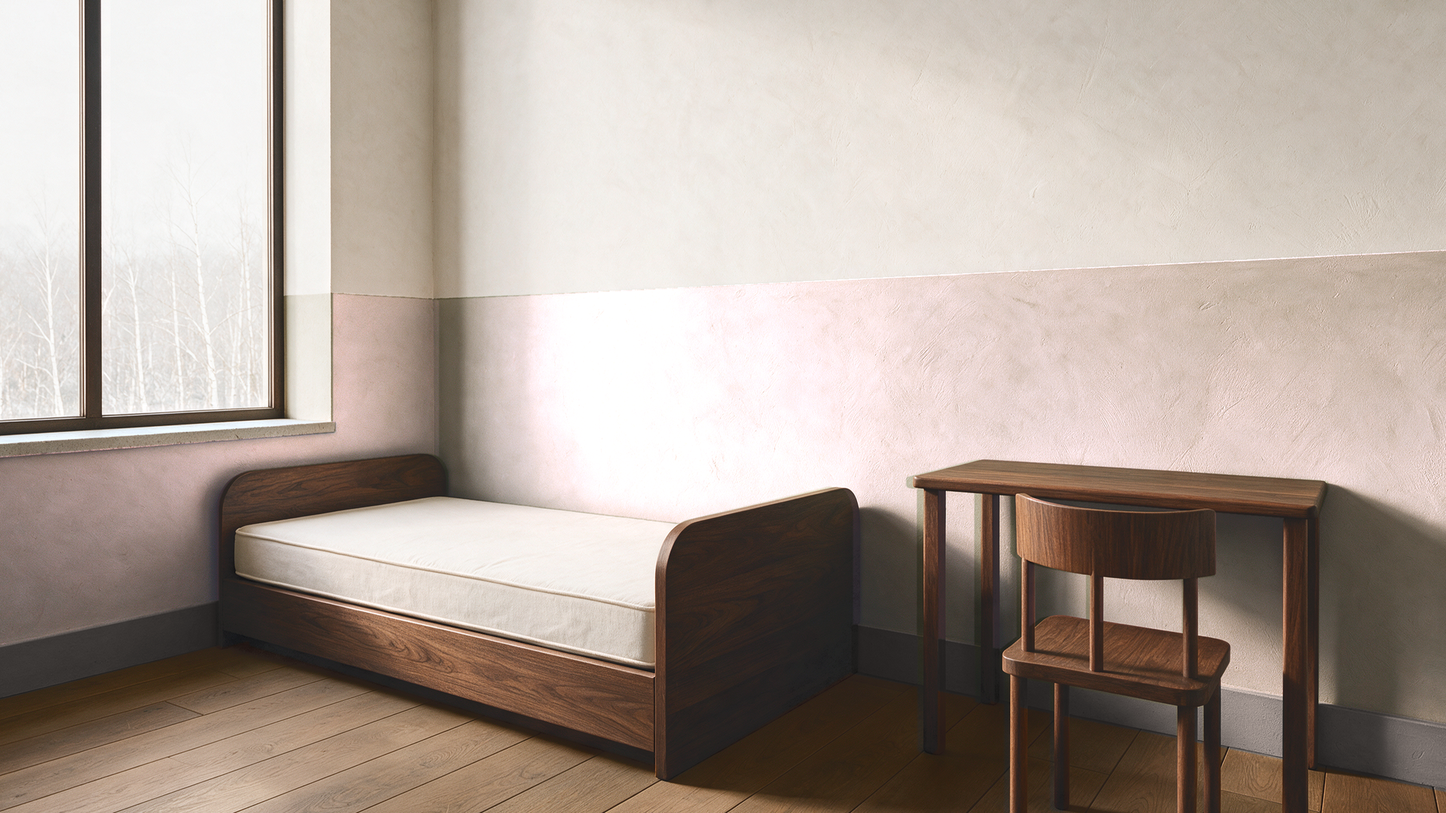
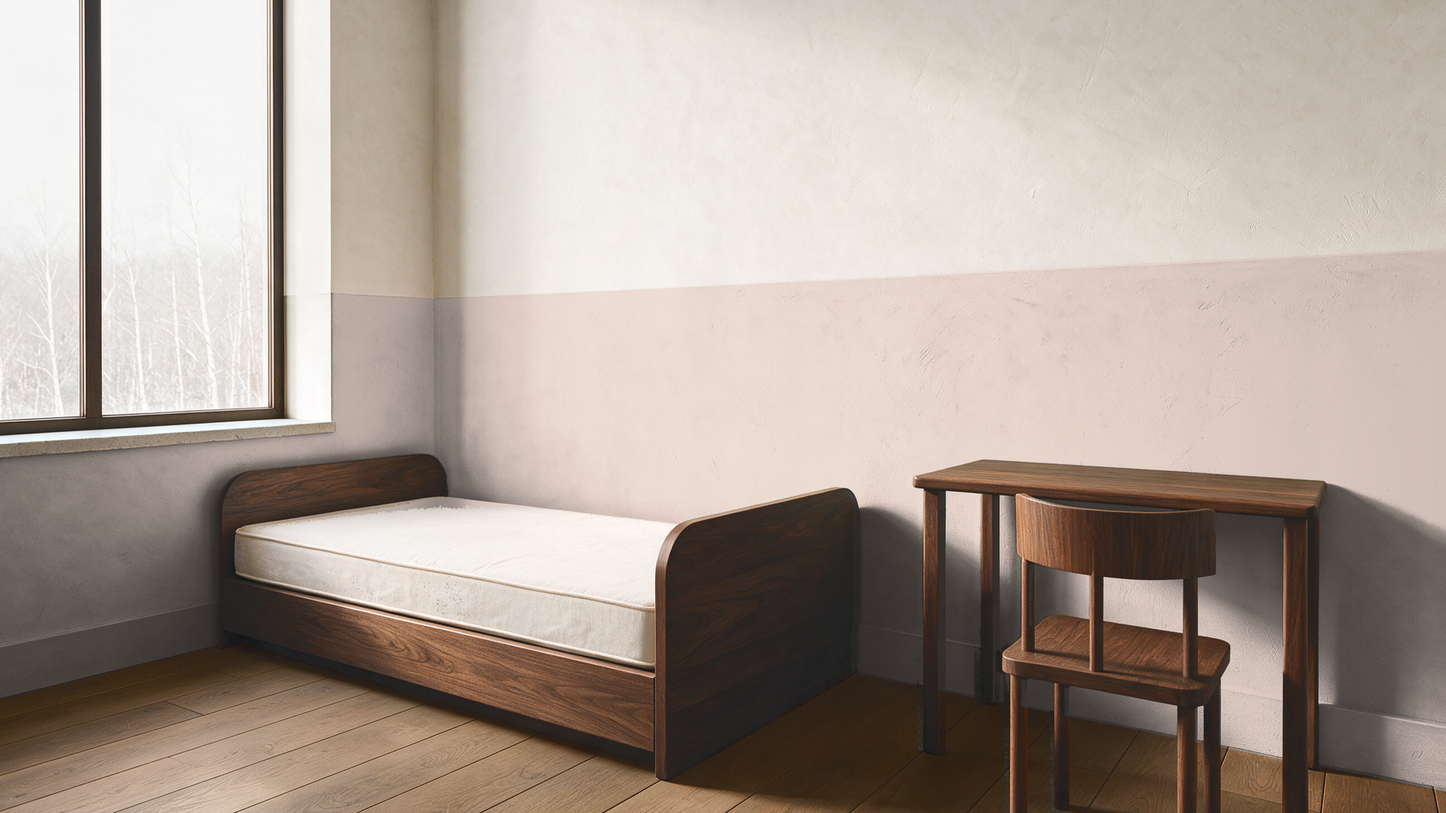
WIP checkpoint: kids QA fixes in progress
Claude-Session: https://claude.ai/code/session_012un7iEDRha5J5s2Ea72wCe

diff --git a/assets/renders/boy/warm-modern/stage1-2026-11-24/tools/girl_plate.py b/assets/renders/boy/warm-modern/stage1-2026-11-24/tools/girl_plate.py
@@ -18,6 +18,7 @@ import json
 import os
 import sys
 
+import cv2
 import numpy as np
 from PIL import Image
 
@@ -55,33 +56,82 @@ def main():
     rs = np.stack([C.blur(ratio[..., c] * w, 10) / np.maximum(C.blur(w, 10), 1e-4) for c in range(3)], -1)
     rs = np.where((C.blur(w, 10) > 0.05)[..., None], rs, 1.0)
     lin = C.lin(boy)
-    out = lin * np.where(band[..., None], 1.0, rs)
+    # K-G1 / K-G2 (QA 2026-11-24): the band is no longer the boy's band times a constant (that clipped to white where the boy's band is
+    # lit, and kept the olive's green in its shade and in the strips the clay's ids do not cover). Instead:
+    #  1. the mask by what is drawn: the clay's band ids, plus the olive the boy's plate shows below the 1.25 line round them and in
+    #     the furniture's clay regions (the legs, the chair and the foot board were drawn thinner than the clay), minus drawn walnut;
+    #  2. the paint: #E8D5CC times a light, the light being the boy's band luminance (its trowel texture, its shade) scaled per column
+    #     so that, just under the line, the band against the girl's plaster just over it is #E8D5CC against #ECE5DA (the implied
+    #     albedo is the target in every column); one chromaticity, so the shade is the lit pink, darker, not khaki;
+    #  3. a soft shoulder: never brighter than the plaster over it in its column (x 1.03), and no channel over 0.90 linear.
+    lab_b = C.to_lab(C.blur(boy, 1.0))
+    hue = np.degrees(np.arctan2(lab_b[..., 2], lab_b[..., 1]))
+    chroma = np.hypot(lab_b[..., 1], lab_b[..., 2])
+    yy = np.arange(H)[:, None]
+    bid = np.isin(ids, (5, 8))
+    line = np.where(bid.any(0), np.argmax(bid, 0), -1).astype(np.float64)
+    okc = line > 0
+    xs_ = np.arange(W)
+    line = np.interp(xs_, xs_[okc], line[okc])
+    below = yy >= (line[None, :] - 2)
+    oliv = (hue > 85) & (hue < 140) & (chroma > 5) & (lab_b[..., 0] > 8)
+    walnut = (hue > 35) & (hue < 78) & (chroma > 7) & (lab_b[..., 0] < 50)
+    cand = (C.dil(np.isin(ids, (5, 8, 19)), 30) | np.isin(ids, (12, 14, 20, 21, 22, 23, 24, 25))) & ~np.isin(ids, (0, 13, 15, 16))
+    band = (np.isin(ids, (5, 8, 19)) & ~walnut) | (cand & below & oliv)
+    band = cv2.morphologyEx(band.astype(np.uint8), cv2.MORPH_CLOSE, C.disk(1)).astype(bool) & ~np.isin(ids, (0, 13, 15, 16))
+    out = lin * np.where(band[..., None], 1.0, rs)              # off the band: the boy's plate x the band's bounce
+    lum = lambda v: v[..., 0] * 0.2126 + v[..., 1] * 0.7152 + v[..., 2] * 0.0722   # noqa: E731
+    Yb = lum(lin)
+    Yg = lum(out)
     alb_girl = C.lin(np.array([0xE8, 0xD5, 0xCC]) / 255.0)
+    Ypl = float(lum(C.lin(np.array([0xEC, 0xE5, 0xDA]) / 255.0)))
+    east = xs_[None, :] >= np.argmax(np.isin(ids, (5,)).any(0))
+    wall_of = np.where(east, 1, 0) * np.ones((H, 1))
+    Fmap = np.zeros((H, W))
+    Smax = np.zeros((H, W))
     ks = {}
-    for wall, wd in CP.WALLS.items():              # each wall's band from its own reading (the north wall is in its own light)
-        br = CP.band_reading(boy, ids, wall)
-        alb_boy = C.lin(np.array(br["implied_albedo_srgb"]) / 255.0)
-        k = alb_girl / np.maximum(alb_boy, 1e-4)
-        ks[wall] = [round(float(v), 4) for v in k]
-        bw = np.isin(ids, wd["ids"])
-        soft = C.blur(bw.astype(np.float64), 0.8)
-        soft = np.where(C.ero(bw, 1), 1.0, np.where(C.dil(bw, 1), soft, 0.0))
-        out = out * (1 + (k - 1) * soft[..., None])
-    k = ks
-    # the plaster above each band takes the band's new bounce, the band does not (the clays' ratio on the band is its albedo change): one
-    # more pass per wall, the band against the plaster above it on the girl's own plate, to #E8D5CC
-    for wall, wd in CP.WALLS.items():
-        br2 = CP.band_reading(C.srgb(np.clip(out, 0, 1)), ids, wall, "#E8D5CC")
-        if br2 and br2["dE00"] > 1.0:
-            k2 = alb_girl / np.maximum(C.lin(np.array(br2["implied_albedo_srgb"]) / 255.0), 1e-4)
-            bw = np.isin(ids, wd["ids"])
-            soft = C.blur(bw.astype(np.float64), 0.8)
-            soft = np.where(C.ero(bw, 1), 1.0, np.where(C.dil(bw, 1), soft, 0.0))
-            out = out * (1 + (k2 - 1) * soft[..., None])
-            ks[wall + "_second_pass"] = [round(float(v), 4) for v in k2]
+    for wi, (wall, wd) in enumerate((("north", CP.WALLS["north"]), ("east", CP.WALLS["east"]))):
+        F = np.full(W, np.nan)
+        P = np.full(W, np.nan)
+        for x in range(W):
+            col = ids[:, x]
+            yb = np.nonzero(col == wd["band"])[0]
+            yp = np.nonzero(col == wd["plaster"])[0]
+            if len(yb) < 30 or len(yp) < 30 or abs(yp.max() - yb.min()) > 3:
+                continue
+            yl = yb.min()
+            pg = float(np.median(Yg[yl - 26:yl - 6, x]))
+            bt = float(np.median(Yb[yl + 6:yl + 26, x]))
+            if bt > 1e-4:
+                F[x] = (pg / Ypl) / bt
+                P[x] = pg
+        ok = np.isfinite(F)
+        if ok.sum() < 10:
+            continue
+        xo = np.nonzero(ok)[0]
+        Fm = np.array([np.median(F[xo][max(0, i - 15):i + 16]) for i in range(len(xo))])
+        Pm = np.array([np.median(P[xo][max(0, i - 15):i + 16]) for i in range(len(xo))])
+        Fx = cv2.GaussianBlur(np.interp(xs_, xo, Fm).astype(np.float32).reshape(1, -1), (0, 0), 8).ravel()
+        Px = cv2.GaussianBlur(np.interp(xs_, xo, Pm).astype(np.float32).reshape(1, -1), (0, 0), 8).ravel()
+        sel = (wall_of == wi)
+        Fmap = np.where(sel, Fx[None, :], Fmap)
+        Smax = np.where(sel, (Px / Ypl)[None, :] * 1.03, Smax)
+        ks[wall] = dict(columns=int(ok.sum()), F_p5_p50_p95=[round(float(v), 4) for v in np.percentile(Fm, [5, 50, 95])])
+    light = Fmap * Yb
+    knee = 0.8 * Smax
+    light = np.where(light > knee, knee + (Smax - knee) * np.tanh((light - knee) / np.maximum(Smax - knee, 1e-6)), light)
+    paint = alb_girl[None, None, :] * light[..., None]
+    k_, c_ = 0.70, 0.90
+    paint = np.where(paint > k_, k_ + (c_ - k_) * np.tanh((paint - k_) / (c_ - k_)), paint)
+    soft = C.blur(band.astype(np.float64), 0.7)
+    soft = np.where(C.ero(band, 1), 1.0, np.where(C.dil(band, 1), soft, 0.0))[..., None]
+    out = out * (1 - soft) + paint * soft
+    k = dict(ks, method="per column: (girl plaster over the line / #ECE5DA) / (boy band under the line), times the boy band's luminance, "
+                        "times #E8D5CC; soft shoulder at the plaster x 1.03 and 0.90 linear", band_px=int(band.sum()),
+             band_by_colour_outside_ids=int((band & ~np.isin(ids, (5, 8, 19))).sum()))
     rgb = C.srgb(np.clip(out, 0, 1))
     labk = C.to_lab(rgb)
-    ks["skirting"] = CP.skirting_fix(labk, ids, "#E8D5CC")
+    k["skirting"] = CP.skirting_fix(labk, ids, "#E8D5CC")
     rgb = np.clip(C.from_lab(labk), 0, 1)
     st = K.ST["girl"]
     K.save(os.path.join(st, "plate.png"), rgb)
@@ -121,6 +171,38 @@ def main():
     hh, ll, ss = colorsys.rgb_to_hls(*np.median(rgb[upper], 0))
     rec["plaster_above_band"]["girl_HSL"] = [round(hh * 360, 1), round(ss * 100, 1), round(ll * 100, 1)]
     rec["WM_G1"] = dict(black_point_p05=rec["black_point_p05"], range=[11, 14], ok=bool(11 <= rec["black_point_p05"] <= 14))
+    # K-G1 / K-G2 acceptance (QA 2026-11-24), on the plate
+    r8 = np.rint(rgb * 255)
+    hb = np.degrees(np.arctan2(lab[..., 2], lab[..., 1])) % 360
+    cb = np.hypot(lab[..., 1], lab[..., 2])
+    bandf = band & fr
+    cols = []
+    pl = C.lin(np.array([0xEC, 0xE5, 0xDA]) / 255.0)
+    for wall, wd in CP.WALLS.items():
+        for x in range(*wd["xr"]):
+            col = ids[:, x]
+            yb = np.nonzero(col == wd["band"])[0]
+            yp = np.nonzero(col == wd["plaster"])[0]
+            if len(yb) < 30 or len(yp) < 30 or abs(yp.max() - yb.min()) > 3:
+                continue
+            yl = yb.min()
+            bl, al = C.lin(rgb)[yl + 6:yl + 26, x].mean(0), C.lin(rgb)[yl - 26:yl - 6, x].mean(0)
+            alb = np.clip(bl / al * pl, 0, 1)
+            lab_a = C.to_lab(C.srgb(alb)[None, None])[0, 0]
+            cols.append((float(C.de00(tuple(lab_a), tuple(K.lab_hex("#E8D5CC")))), float(lab[yl + 6:yl + 26, x, 0].mean() < lab[yl - 26:yl - 6, x, 0].mean())))
+    cols = np.array(cols)
+    lit = bandf & (lab[..., 0] > 55)
+    dark = bandf & (lab[..., 0] < 50)
+    hl, hd_ = float(np.median(hb[lit])), float(np.median(hb[dark])) if dark.any() else float("nan")
+    up_l = C.ero(np.isin(ids, (1, 2)), 4) & fr
+    rec["K-G1_K-G2"] = dict(
+        band_px=int(bandf.sum()), band_px_all_three_over_245=int((bandf & (r8 > 245).all(-1)).sum()),
+        band_px_any_over_252=int((bandf & (r8 > 252).any(-1)).sum()),
+        implied_albedo_per_column_dE00_p5_p50_p95=[round(float(v), 2) for v in np.percentile(cols[:, 0], [5, 50, 95])], columns=len(cols),
+        band_darker_than_plaster_columns_frac=round(float(cols[:, 1].mean()), 4),
+        band_L_p99=round(float(np.percentile(lab[..., 0][bandf], 99)), 1), plaster_L_p99=round(float(np.percentile(lab[..., 0][up_l], 99)), 1),
+        hue_lit_vs_shade=[round(hl, 1), round(hd_, 1)], band_px_hue_70_110=int((bandf & (hb > 70) & (hb < 110)).sum()),
+        band_px_hue_70_110_C_over_3=int((bandf & (hb > 70) & (hb < 110) & (cb > 3)).sum()))
     json.dump(rec, open(os.path.join(st, "plate-compose.json"), "w"), indent=1)
     print(json.dumps(rec, indent=1)[:3000])
 

diff --git a/assets/renders/boy/warm-modern/stage1-2026-11-24/tools/compose_plate_kids.py b/assets/renders/boy/warm-modern/stage1-2026-11-24/tools/compose_plate_kids.py
@@ -97,6 +97,36 @@ def band_reading(rgb, ids, wall="east", target="#A8A88E"):
                 dE00=round(float(C.de00(tuple(lab), tuple(K.lab_hex(target)))), 2), columns=len(below))
 
 
+def reveal_fix(lab, ids):
+    """K-L6 (QA 2026-11-24): the window's reveal (clay id 12) is plaster, but the model carried the band's tint onto it below the 1.25 line,
+    with a hard edge. Per column of the reveal, the step at the line (the largest change of b* between rows 540 and 620, read on a 1 px
+    blur) is measured as the median L* a* b* 20 px above against 20 px below; everything below takes the step back, with a 4 px ramp"""
+    m = ids == 12
+    xs = np.nonzero(m.any(0))[0]
+    if xs.size == 0:
+        return None
+    lb = C.blur(lab, 1.0)
+    steps, lines = [], []
+    for x in xs:
+        col = lb[540:620, x, 2]
+        if not m[540:620, x].all():
+            continue
+        g = np.abs(np.convolve(col, np.r_[np.ones(4), -np.ones(4)] / 4, mode="same"))
+        lines.append(540 + int(np.argmax(g[4:-4]) + 4))
+    if len(lines) < 10:
+        return None
+    yl = int(np.median(lines))
+    up = lab[yl - 26:yl - 6][:, xs][m[yl - 26:yl - 6][:, xs]]
+    dn = lab[yl + 6:yl + 26][:, xs][m[yl + 6:yl + 26][:, xs]]
+    d = np.median(up, 0) - np.median(dn, 0)
+    yy = np.arange(H)[:, None]
+    ramp = np.clip((yy - (yl - 2)) / 4.0, 0, 1) * m
+    for c in range(3):
+        lab[..., c] += ramp * d[c]
+    return dict(line_y=yl, step_Lab=[round(float(v), 2) for v in d], px=int((ramp > 0).sum()),
+                why="K-L6: the band's tint and its hard line on the reveal below 1.25 taken back to the reveal's plaster")
+
+
 def main(raw):
     ids = K.ids("K-boy-plate")
     stable = C.ero(np.isin(ids, K.ARCH), 3) & K.frame_mask()
@@ -145,6 +175,9 @@ def main(raw):
     sk = skirting_fix(lab, ids, "#A8A88E")
     if sk and sk.get("applied"):
         fixes["skirting"] = sk
+    rv = reveal_fix(lab, ids)
+    if rv:
+        fixes["reveal below the band line"] = rv
     e2 = np.clip(C.from_lab(lab), 0, 1)
     after = {}
     for name, (g, g0) in SURF.items():
